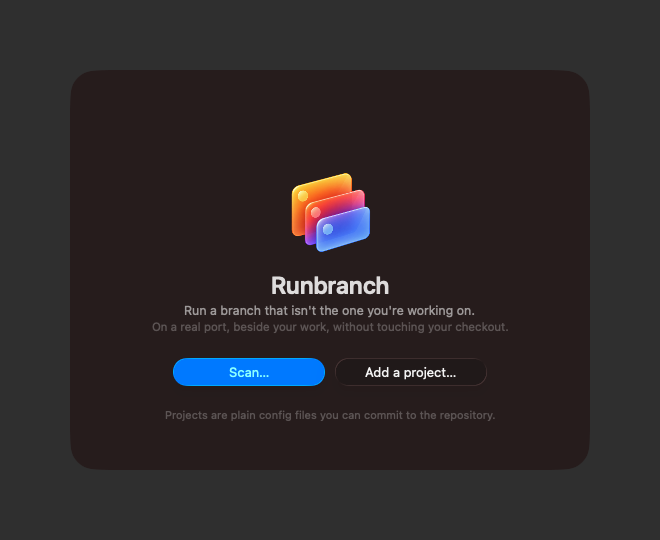
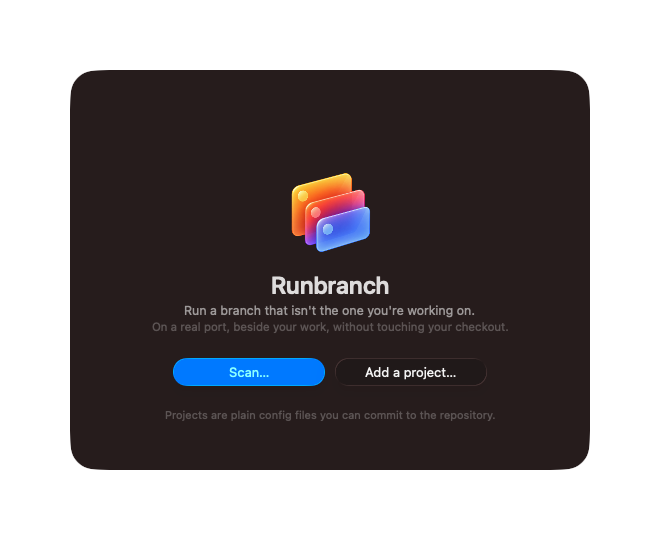
Give sheets their own chrome, and revert the backdrop
The backdrop panel and display-wide capture are gone: they were aimed at
the main window's shadow, which was never the problem, and they changed
the look of every screenshot to get there.

The actual fault is in the app, not the capture. A SwiftUI sheet on macOS
is a real NSWindow that fills itself with an opaque background colour, and
neither sheet set any surface of its own. So the edit-project and scan
sheets rendered as flat filled rectangles with no material and no shadow,
sitting on the parent window with nothing to separate them from it.

They now use the same glass surface as the run strip, over a cleared
window background — without clearing it, anything translucent composites
against the window's own fill and the material is invisible.

The sheet height goes back to what it was; the capture window is taller
instead, so a full-height sheet has room to sit inside it. Changing the
app's layout to suit a screenshot was the wrong way round.

diff --git a/app/RunBranch.swift b/app/RunBranch.swift
@@ -944,10 +944,6 @@ enum Screenshot {
         return a[i + 1]
     }
 
-    /// Set while capturing, so the backdrop panel can be excluded from the
-    /// crop region — it is one of this process's windows and covers the screen.
-    nonisolated(unsafe) static var backdropNumber: Int?
-
     /// Which screen to photograph. The docs need more than one, and opening a
     /// sheet by hand before every capture is not automation.
     enum Scene: String { case main, settings, scan, logs }
@@ -1019,27 +1015,6 @@ enum Screenshot {
             window.setFrame(NSRect(x: vf.midX - size.width / 2, y: vf.midY - size.height / 2,
                                    width: size.width, height: size.height), display: true)
         }
-        // An opaque panel behind the window, just below it in the stacking
-        // order. The capture below is display-bounded — the only way to get
-        // real window shadows — so this is what hides every other app and
-        // keeps the surround identical from one run to the next. An earlier
-        // attempt at this had no effect because the capture was scoped to this
-        // application, which excluded the panel along with everything else.
-        var backdrop: NSWindow?
-        if let screen = window.screen ?? NSScreen.main {
-            let b = NSWindow(contentRect: screen.frame, styleMask: [.borderless],
-                             backing: .buffered, defer: false)
-            b.backgroundColor = NSColor(calibratedWhite: 0.16, alpha: 1)
-            b.isOpaque = true
-            b.ignoresMouseEvents = true
-            b.level = NSWindow.Level(rawValue: window.level.rawValue - 1)
-            b.collectionBehavior = [.canJoinAllSpaces, .fullScreenAuxiliary]
-            b.orderFront(nil)
-            backdrop = b
-            backdropNumber = b.windowNumber
-        }
-        defer { backdrop?.orderOut(nil) }
-
         window.makeKeyAndOrderFront(nil)
         NSApp.activate(ignoringOtherApps: true)
         try? await Task.sleep(for: .seconds(3.5))     // layout, health poll, glass
@@ -1067,7 +1042,6 @@ enum Screenshot {
                 ours = content.windows.filter {
                     $0.owningApplication?.processID == mypid && $0.isOnScreen
                         && $0.frame.width > 1 && $0.frame.height > 1
-                        && Int($0.windowID) != Screenshot.backdropNumber
                 }
                 if !ours.isEmpty { break }
                 try? await Task.sleep(for: .milliseconds(400))
@@ -1121,13 +1095,12 @@ enum Screenshot {
 
             let filter: SCContentFilter
             var region: CGRect?
-            if let display {
-                // The whole display, cropped below to our windows plus a
-                // margin. Scoping the filter to this application produced a
-                // clean background but no shadows at all, and a macOS sheet
-                // reads as floating almost entirely through its shadow. The
-                // backdrop above is what keeps everything else out of frame.
-                filter = SCContentFilter(display: display, excludingWindows: [])
+            if let display, let me = content.applications.first(where: {
+                $0.processID == mypid
+            }) {
+                filter = SCContentFilter(display: display,
+                                         including: [me],
+                                         exceptingWindows: [])
                 // Union of our windows, padded so the drop shadow is not
                 // sheared off, then clamped to the display.
                 let union = ourWindows.dropFirst().reduce(
@@ -1151,13 +1124,6 @@ enum Screenshot {
             cfg.showsCursor = false
             cfg.scalesToFit = false
             cfg.backgroundColor = .clear
-            // Shadows are dropped by default, which is why sheets came out
-            // looking pasted on: a macOS sheet is read as floating almost
-            // entirely through its shadow. These are the display-bounded
-            // variants, because the filter above is display-bounded; the
-            // single-window ones do nothing here.
-            cfg.ignoreShadowsDisplay = false
-            cfg.ignoreGlobalClipDisplay = false
             let shot = try await SCScreenshotManager.captureImage(
                 contentFilter: filter, configuration: cfg)
             guard let png = NSBitmapImageRep(cgImage: shot)
@@ -1306,6 +1272,27 @@ struct SymbolPicker: View {
 /// The engine owns the file: this reads `get` and writes changed keys through
 /// `set`, which keeps comments, backs the file up and reverts anything that
 /// will not load. So the worst a mistake here can do is show an error.
+/// Makes a sheet's own window transparent so the material behind the content
+/// is what you see.
+///
+/// A SwiftUI sheet on macOS is a real NSWindow that fills itself with an opaque
+/// background colour. Anything translucent placed inside it therefore composites
+/// against that fill rather than against the parent window, so the sheet reads
+/// as a flat filled rectangle with no depth to it. Clearing the window's own
+/// background is what lets the material — and the window's shadow — show.
+struct SheetChrome: NSViewRepresentable {
+    func makeNSView(context: Context) -> NSView { NSView(frame: .zero) }
+
+    func updateNSView(_ view: NSView, context: Context) {
+        DispatchQueue.main.async {
+            guard let w = view.window else { return }
+            w.isOpaque = false
+            w.backgroundColor = .clear
+            w.hasShadow = true
+        }
+    }
+}
+
 struct ProjectEditor: View {
     let projectID: String
     let onClose: (_ changed: Bool) -> Void
@@ -1435,9 +1422,10 @@ struct ProjectEditor: View {
             }
             .padding(.horizontal, 18).padding(.vertical, 12)
         }
-        // Shorter than the window, so the sheet sits inside its parent rather
-        // than hanging past the bottom edge and reading as a detached panel.
-        .frame(width: 560, height: 500)
+        .frame(width: 560, height: 620)
+        .glassEffect(.regular, in: .rect(cornerRadius: 16))
+        .presentationBackground(.clear)
+        .background(SheetChrome())
         .task {
             let loaded = await Task.detached { Engine.get(projectID) }.value
             f = loaded; original = loaded; loading = false
@@ -1603,6 +1591,9 @@ struct ScanSheet: View {
             .padding(.horizontal, 18).padding(.vertical, 12)
         }
         .frame(width: 560, height: 480)
+        .glassEffect(.regular, in: .rect(cornerRadius: 16))
+        .presentationBackground(.clear)
+        .background(SheetChrome())
     }
 
     private func chooseFolder() {
@@ -1711,7 +1702,7 @@ struct WelcomeView: View {
 struct WindowSizer: NSViewRepresentable {
     let compact: Bool
     static let compactSize = NSSize(width: 520, height: 400)
-    static let fullSize = NSSize(width: 1000, height: 620)
+    static let fullSize = NSSize(width: 1000, height: 720)
 
     final class Coordinator { var applied: Bool? }
     func makeCoordinator() -> Coordinator { Coordinator() }
